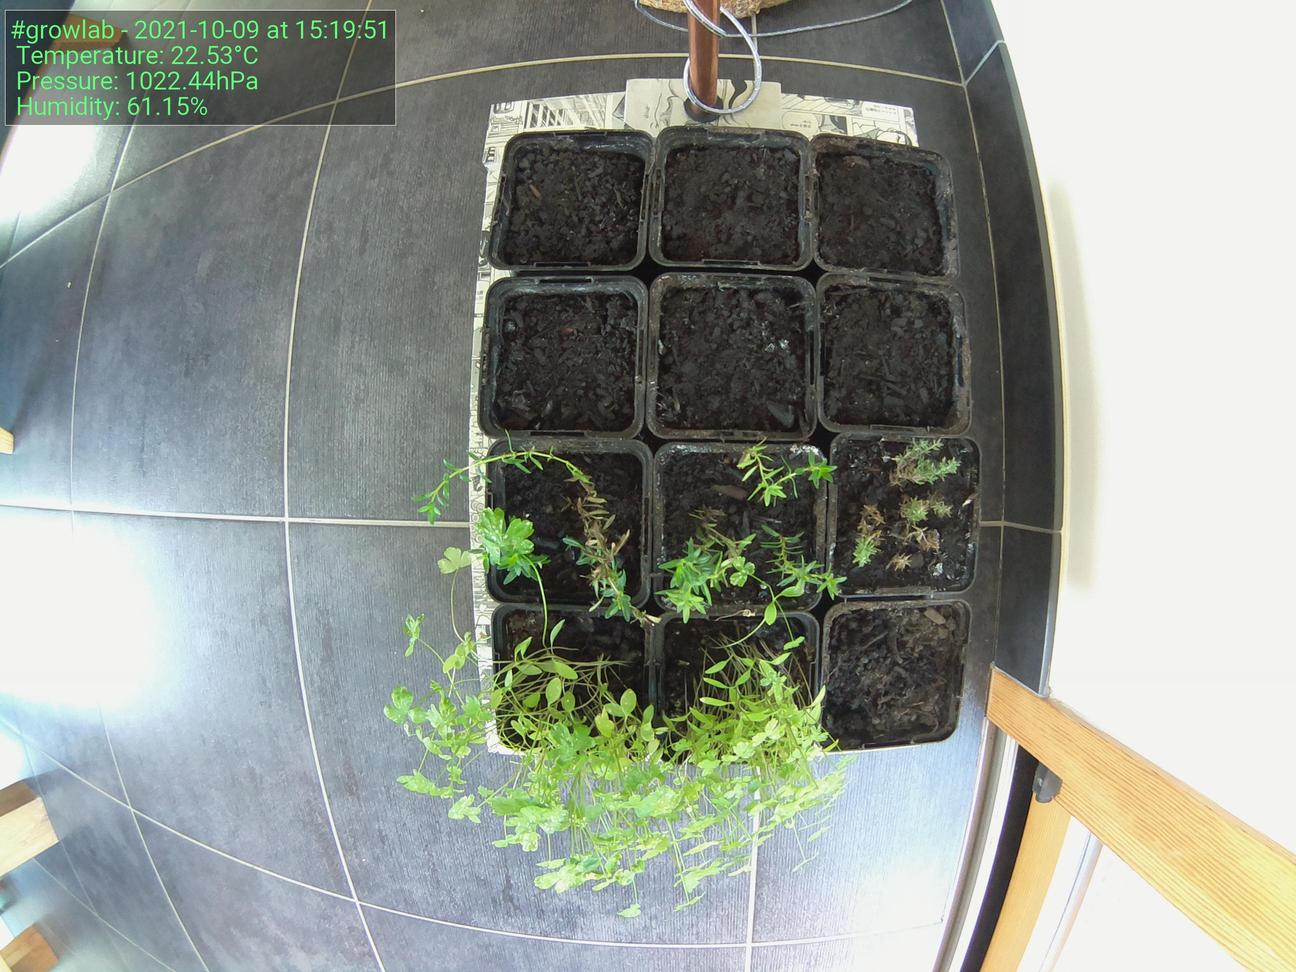
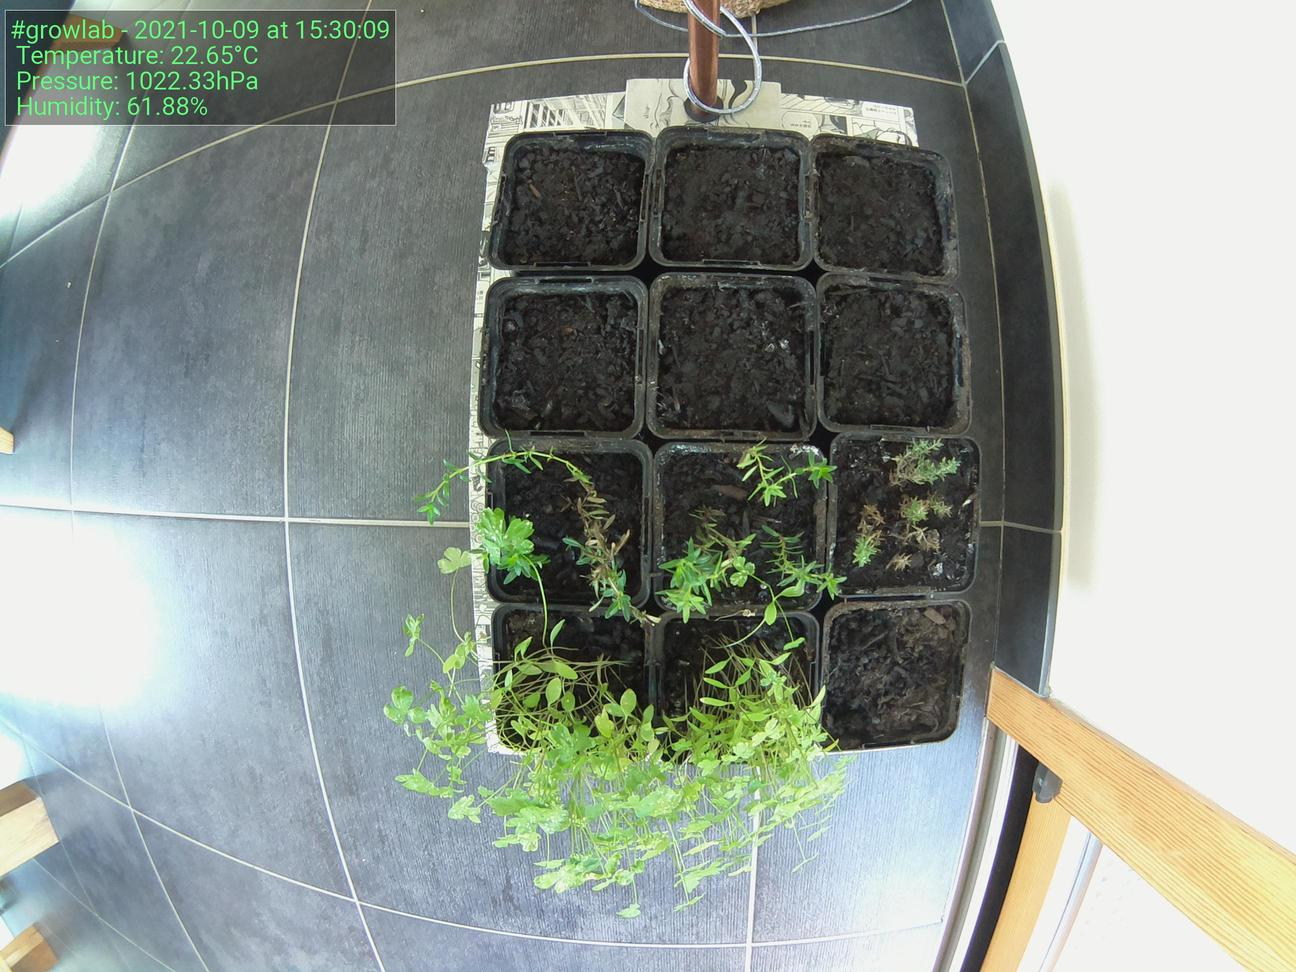
Update images at Sat  9 Oct 15:30:18 CEST 2021

diff --git a/docs/index.html b/docs/index.html
@@ -52,19 +52,19 @@
                             </tr>
                             <tr>
                                 <td>Time</td>
-                                <td>15:19:51</td>
+                                <td>15:30:09</td>
                             </tr>
                             <tr>
                                 <td>Temperature</td>
-                                <td>22.53°C</td>
+                                <td>22.65°C</td>
                             </tr>
                             <tr>
                                 <td>Humidity</td>
-                                <td>61.15%</td>
+                                <td>61.88%</td>
                             </tr>
                             <tr>
                                 <td>Pressure</td>
-                                <td>1022.44hPa</td>
+                                <td>1022.33hPa</td>
                             </tr>
                         </tbody>
                     </table>
@@ -72,7 +72,7 @@
 
                 <h5>Latest image</h5>
                 <div style="width: 85%;">
-                            <img class="figure-img img-fluid rounded" src="./preview.jpg?uid=1633785599.9329834">
+                            <img class="figure-img img-fluid rounded" src="./preview.jpg?uid=1633786217.7689326">
                 </div>
             </div>
         </div>
